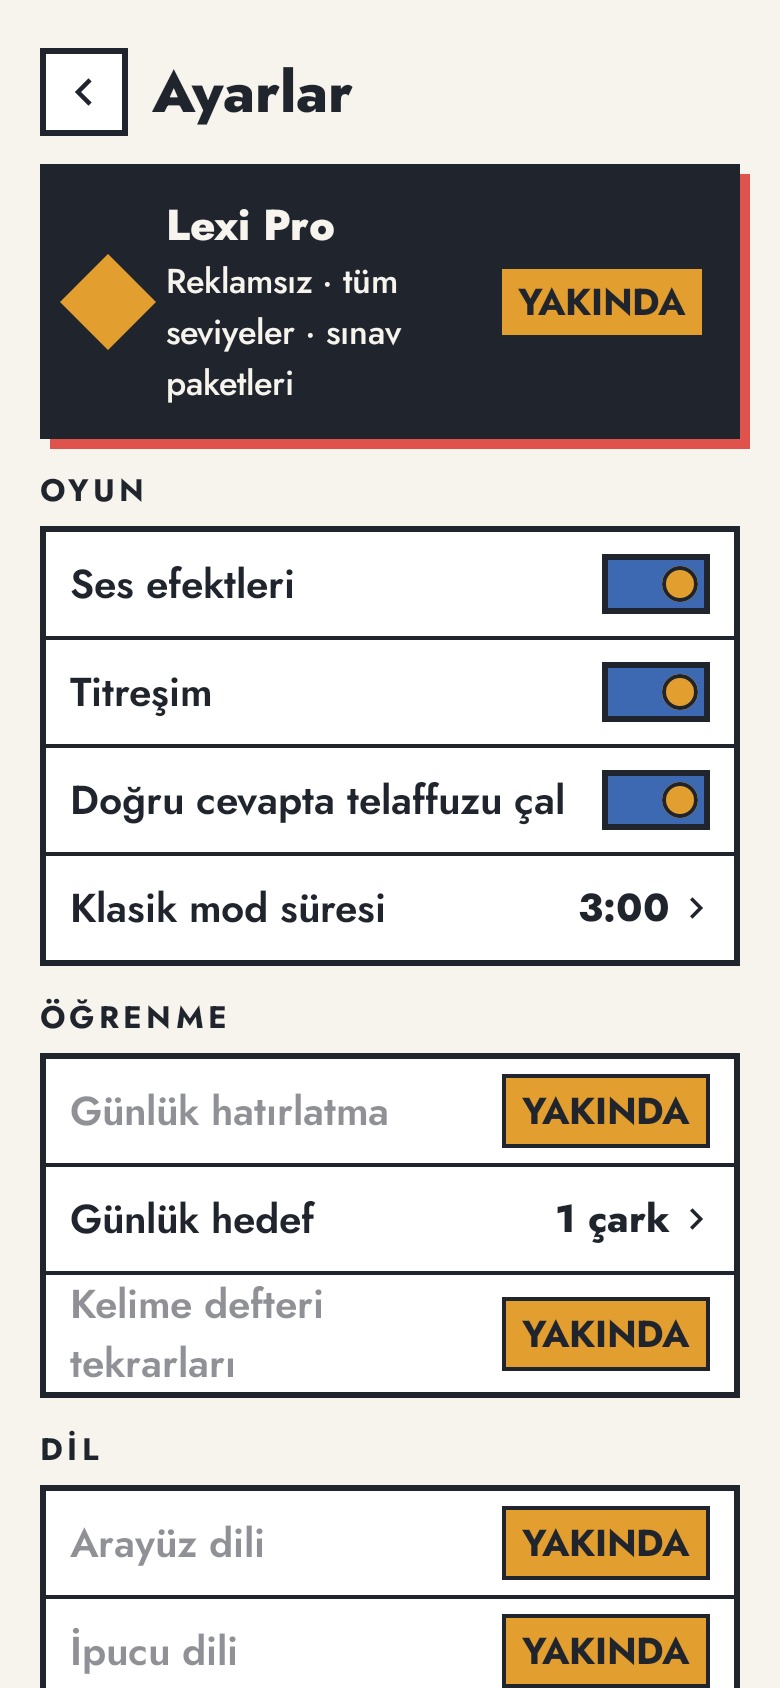
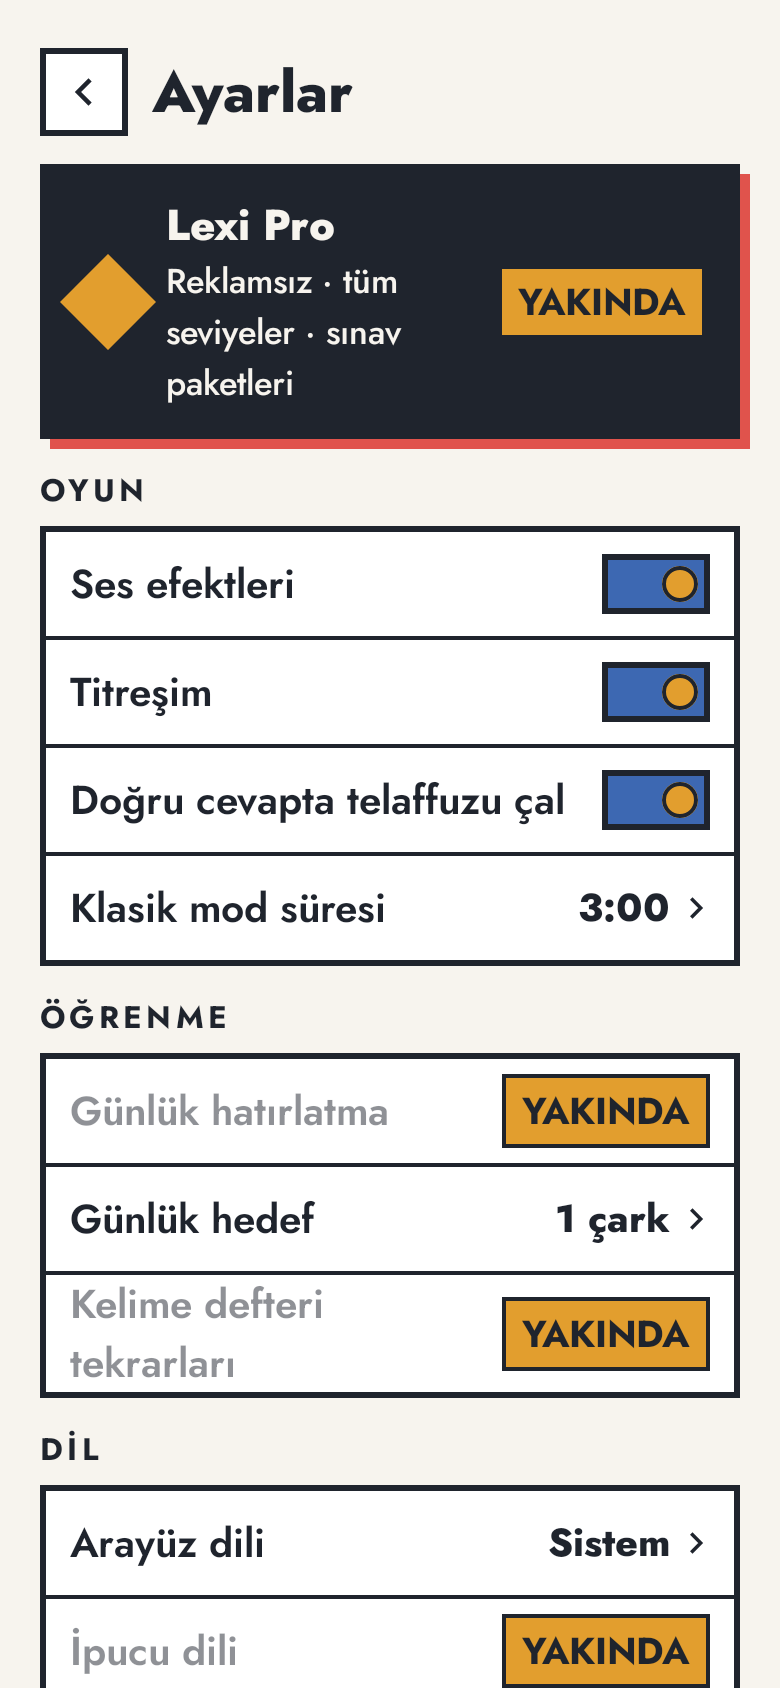
feat(settings): live app language setting and screenshot tests

Changed region(s): [[0.6462, 0.8934, 0.9231, 0.955], [0.0923, 0.8934, 0.2462, 0.9242], [0.2769, 0.8934, 0.3385, 0.9242]]

diff --git a/androidApp/src/main/kotlin/dev/talhabayhan/lexi/MainActivity.kt b/androidApp/src/main/kotlin/dev/talhabayhan/lexi/MainActivity.kt
@@ -8,12 +8,10 @@ import androidx.activity.compose.setContent
 import androidx.activity.enableEdgeToEdge
 import androidx.compose.runtime.Composable
 import androidx.compose.ui.tooling.preview.Preview
-import dev.talhabayhan.lexi.core.platform.language.AndroidPlatformLanguage
 
 class MainActivity : ComponentActivity() {
     override fun onCreate(savedInstanceState: Bundle?) {
-        val currentLanguage = AndroidPlatformLanguage.getStoredLanguage(this)
-        AndroidPlatformLanguage.applyLanguage(this, currentLanguage)
+        MainActivityLanguage.init(this)
 
         // Light only (ADR 0010): dark system-bar icons even when the system is in dark mode.
         enableEdgeToEdge(
@@ -23,15 +21,7 @@ class MainActivity : ComponentActivity() {
         super.onCreate(savedInstanceState)
 
         setContent {
-            App(
-                onLanguageChanged = { newLanguage ->
-                    if (newLanguage != currentLanguage) {
-                        AndroidPlatformLanguage.setStoredLanguage(this, newLanguage)
-                        AndroidPlatformLanguage.applyLanguage(this, newLanguage)
-                        recreate()
-                    }
-                },
-            )
+            MainActivityLanguage.LexiApp(this)
         }
     }
 }

diff --git a/shared/src/androidMain/kotlin/dev/talhabayhan/lexi/MainActivityLanguage.kt b/shared/src/androidMain/kotlin/dev/talhabayhan/lexi/MainActivityLanguage.kt
@@ -1,0 +1,30 @@
+package dev.talhabayhan.lexi
+
+import android.app.Activity
+import androidx.compose.runtime.Composable
+import dev.talhabayhan.lexi.core.platform.language.AndroidPlatformLanguage
+
+/**
+ * Android activity helper for app-level language initialization and dynamic locale updates.
+ * Exposes language lifecycle methods to `androidApp` without requiring it to depend on core modules.
+ */
+public object MainActivityLanguage {
+    public fun init(activity: Activity) {
+        val currentLanguage = AndroidPlatformLanguage.getStoredLanguage(activity)
+        AndroidPlatformLanguage.applyLanguage(activity, currentLanguage)
+    }
+
+    @Composable
+    public fun LexiApp(activity: Activity) {
+        val currentLanguage = AndroidPlatformLanguage.getStoredLanguage(activity)
+        App(
+            onLanguageChanged = { newLanguage ->
+                if (newLanguage != currentLanguage) {
+                    AndroidPlatformLanguage.setStoredLanguage(activity, newLanguage)
+                    AndroidPlatformLanguage.applyLanguage(activity, newLanguage)
+                    activity.recreate()
+                }
+            },
+        )
+    }
+}

diff --git a/shared/src/commonMain/kotlin/dev/talhabayhan/lexi/App.kt b/shared/src/commonMain/kotlin/dev/talhabayhan/lexi/App.kt
@@ -2,20 +2,19 @@ package dev.talhabayhan.lexi
 
 import androidx.compose.runtime.Composable
 import androidx.compose.runtime.CompositionLocalProvider
+import androidx.compose.runtime.LaunchedEffect
 import dev.talhabayhan.lexi.core.designsystem.feedback.LocalHaptics
 import dev.talhabayhan.lexi.core.designsystem.feedback.LocalSoundPlayer
 import dev.talhabayhan.lexi.core.designsystem.theme.LexiTheme
 import dev.talhabayhan.lexi.core.designsystem.theme.LexiViewport
+import dev.talhabayhan.lexi.core.domain.repository.SettingsRepository
+import dev.talhabayhan.lexi.core.domain.settings.AppLanguage
 import dev.talhabayhan.lexi.di.appModules
 import dev.talhabayhan.lexi.di.rememberPlatformModule
 import dev.talhabayhan.lexi.navigation.LexiNavHost
 import org.koin.compose.KoinApplication
 import org.koin.compose.koinInject
 import org.koin.dsl.koinConfiguration
-
-import androidx.compose.runtime.LaunchedEffect
-import dev.talhabayhan.lexi.core.domain.repository.SettingsRepository
-import dev.talhabayhan.lexi.core.domain.settings.AppLanguage
 
 /**
  * Root composable for Android (`MainActivity`) and iOS (`MainViewController`): starts Koin and hosts the nav graph

diff --git a/feature/home/src/commonMain/kotlin/dev/talhabayhan/lexi/feature/home/HomeScreen.kt b/feature/home/src/commonMain/kotlin/dev/talhabayhan/lexi/feature/home/HomeScreen.kt
@@ -90,10 +90,10 @@ import dev.talhabayhan.lexi.feature.home.generated.resources.home_tile_practice
 import dev.talhabayhan.lexi.feature.home.generated.resources.home_tile_practice_subtitle
 import dev.talhabayhan.lexi.feature.home.generated.resources.home_tile_stats
 import dev.talhabayhan.lexi.feature.home.generated.resources.home_tile_stats_learned
+import kotlinx.coroutines.delay
 import org.jetbrains.compose.resources.pluralStringResource
 import org.jetbrains.compose.resources.stringArrayResource
 import org.jetbrains.compose.resources.stringResource
-import kotlinx.coroutines.delay
 
 /**
  * `02-home`: streak chip and settings, the logo, the daily card, OYNA and the 2 × 2 menu tiles. The blue circle and

diff --git a/core/domain/src/commonMain/kotlin/dev/talhabayhan/lexi/core/domain/rating/RatingPromptPolicy.kt b/core/domain/src/commonMain/kotlin/dev/talhabayhan/lexi/core/domain/rating/RatingPromptPolicy.kt
@@ -17,10 +17,7 @@ import dev.talhabayhan.lexi.core.domain.time.AppClock
  * - After 3 refusals stop permanently
  * - Once user rated, stop permanently
  */
-public class RatingPromptPolicy(
-    private val clock: AppClock,
-    private val enabled: Boolean = RATING_PROMPT_ENABLED,
-) {
+public class RatingPromptPolicy(private val clock: AppClock, private val enabled: Boolean = RATING_PROMPT_ENABLED) {
     public fun shouldPrompt(
         state: RatingPromptState,
         sessionCount: Int,

diff --git a/feature/game/src/commonMain/kotlin/dev/talhabayhan/lexi/feature/game/result/ResultScreen.kt b/feature/game/src/commonMain/kotlin/dev/talhabayhan/lexi/feature/game/result/ResultScreen.kt
@@ -304,7 +304,8 @@ private fun Review(state: ResultUiState, onIntent: (ResultIntent) -> Unit) {
     }
 }
 
-internal const val SHARE_AVAILABLE: Boolean = false // TODO(B3): share card (`12-share-card`) rendered to bitmap + system share sheet
+// TODO(B3): share card (`12-share-card`) rendered to bitmap + system share sheet
+internal const val SHARE_AVAILABLE: Boolean = false
 
 /**
  * Action buttons: behind [SHARE_AVAILABLE] = false (TODO(B3)), TEKRAR OYNA is full width and Paylaş is hidden.

diff --git a/feature/game/src/commonMain/kotlin/dev/talhabayhan/lexi/feature/game/components/RatingPromptDialog.kt b/feature/game/src/commonMain/kotlin/dev/talhabayhan/lexi/feature/game/components/RatingPromptDialog.kt
@@ -24,11 +24,7 @@ import org.jetbrains.compose.resources.stringResource
  * "Enjoying Lexi?" / "Lexi hoşuna gidiyor mu?".
  */
 @Composable
-internal fun RatingPromptDialog(
-    onRate: () -> Unit,
-    onLater: () -> Unit,
-    modifier: Modifier = Modifier,
-) {
+internal fun RatingPromptDialog(onRate: () -> Unit, onLater: () -> Unit, modifier: Modifier = Modifier) {
     Box(modifier.fillMaxSize()) {
         ModalScrim(onDismissRequest = onLater)
         ConfirmDialog(

diff --git a/core/platform/src/androidMain/kotlin/dev/talhabayhan/lexi/core/platform/language/PlatformLanguage.android.kt b/core/platform/src/androidMain/kotlin/dev/talhabayhan/lexi/core/platform/language/PlatformLanguage.android.kt
@@ -34,7 +34,9 @@ public object AndroidPlatformLanguage {
                 val systemLocales = Resources.getSystem().configuration.locales
                 if (!systemLocales.isEmpty) systemLocales[0] else Locale.getDefault()
             }
+
             AppLanguage.TR -> Locale.forLanguageTag("tr")
+
             AppLanguage.EN -> Locale.forLanguageTag("en")
         }
         Locale.setDefault(locale)

diff --git a/feature/settings/src/commonTest/kotlin/dev/talhabayhan/lexi/feature/settings/SettingsViewModelTest.kt b/feature/settings/src/commonTest/kotlin/dev/talhabayhan/lexi/feature/settings/SettingsViewModelTest.kt
@@ -145,7 +145,7 @@ class SettingsViewModelTest {
     }
 
     @Test
-    fun `cycle app language cycles through SYSTEM, TR, EN, and back to SYSTEM`() = runTest {
+    fun `cycle app language cycles through SYSTEM TR EN and back to SYSTEM`() = runTest {
         val viewModel = viewModel()
         assertEquals(AppLanguage.SYSTEM, viewModel.state.value.appLanguage)
 

diff --git a/core/data/src/jvmTest/kotlin/dev/talhabayhan/lexi/core/data/settings/SettingsRepositoryTest.kt b/core/data/src/jvmTest/kotlin/dev/talhabayhan/lexi/core/data/settings/SettingsRepositoryTest.kt
@@ -46,7 +46,7 @@ class SettingsRepositoryTest {
             reminderMinuteOfDay = 7 * 60 + 30,
             dailyGoalWheels = 3,
             reviewReminders = false,
-            uiLanguage = UiLanguage.EN,
+            appLanguage = UiLanguage.EN,
             accent = Accent.UK,
         )
 
